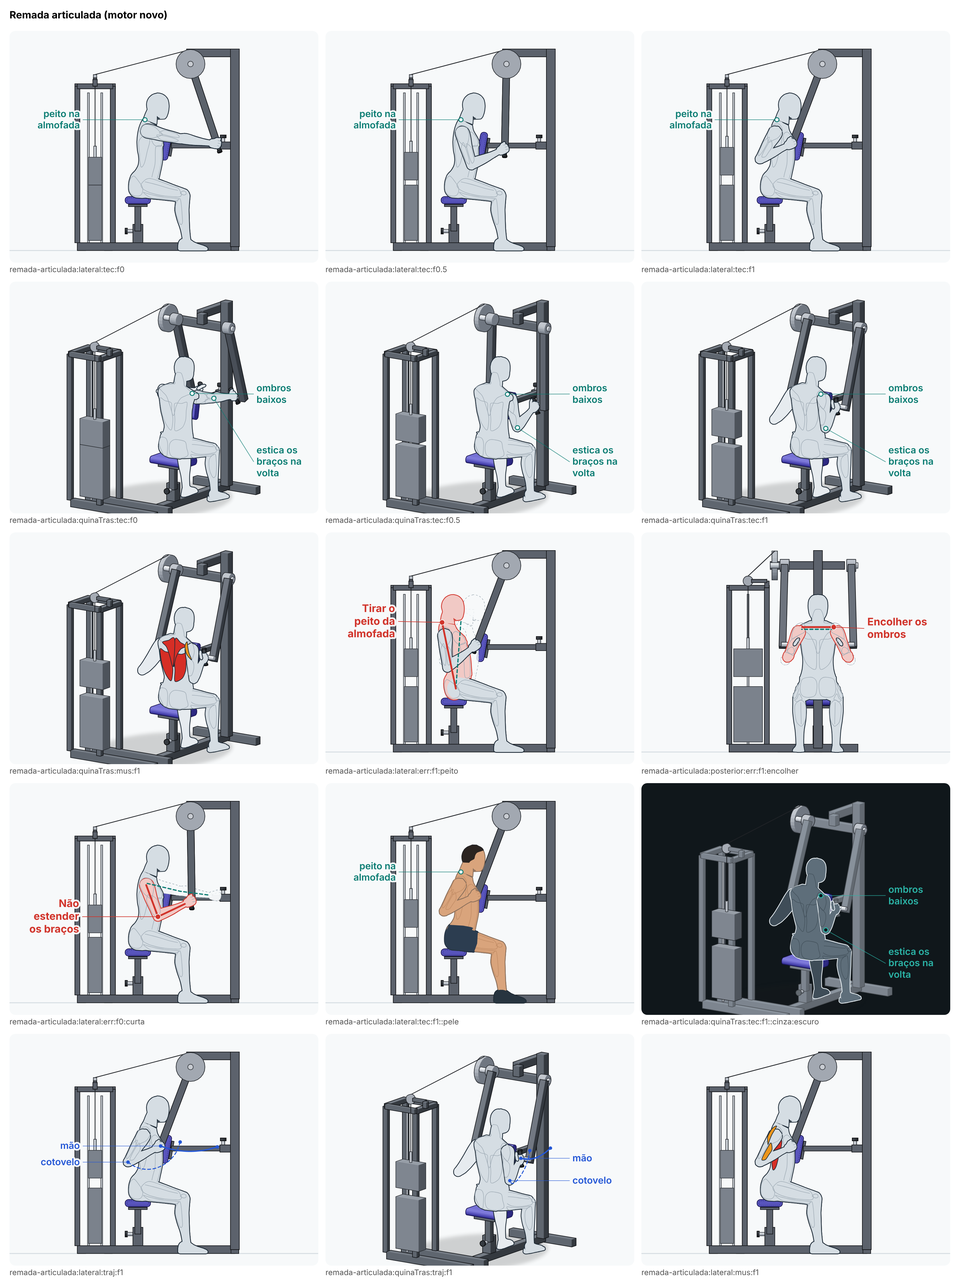
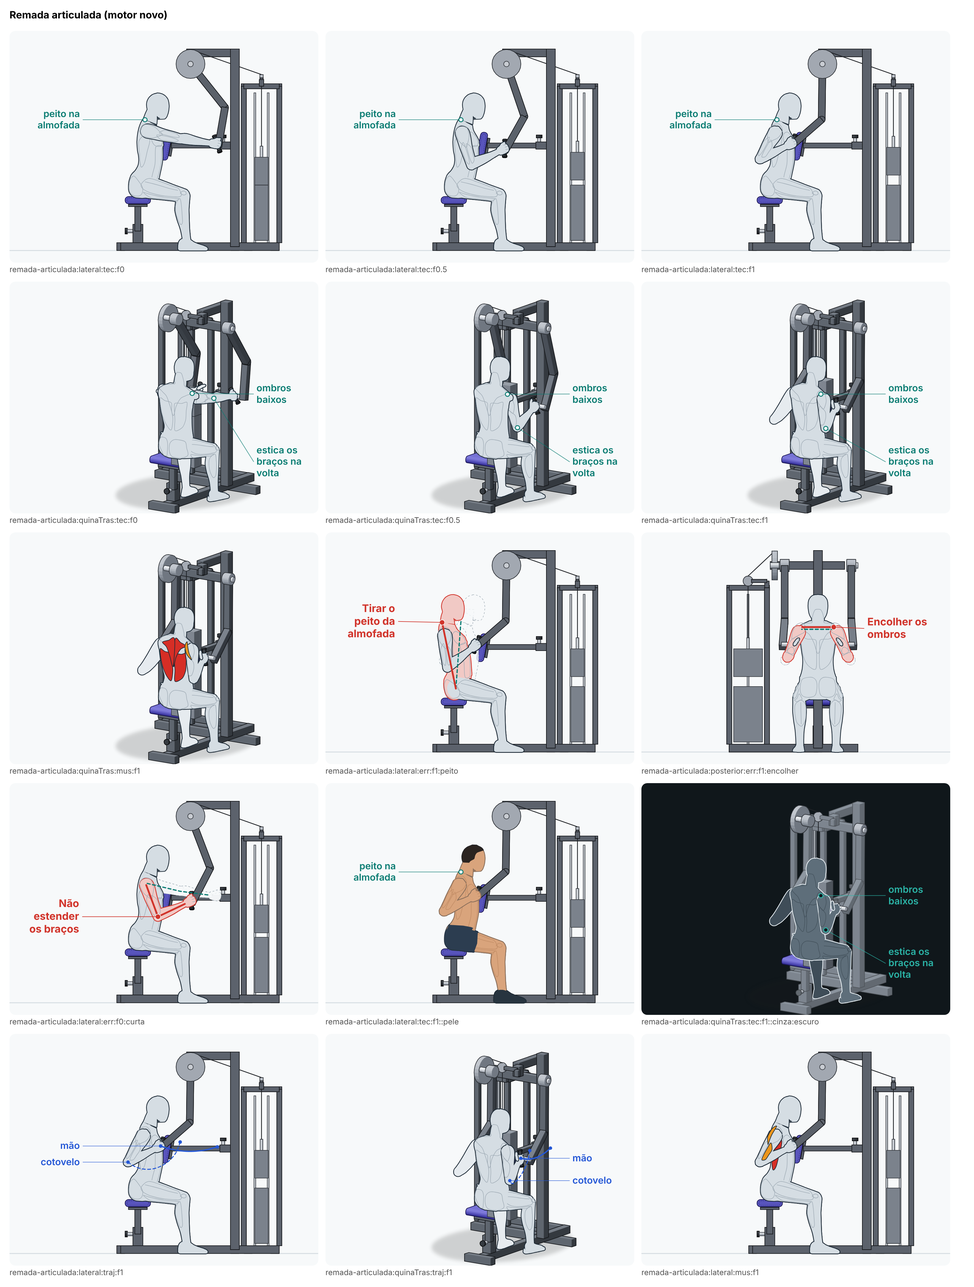
Lote C2: tira o braço da remada articulada da frente do rosto
De lado, o tubo reto do braço da máquina passava rente à frente do rosto
e cortava a cabeça na diagonal. Agora ele é dobrado (sai do eixo 20° à
frente e dobra a 50 cm dele), sem mudar o arco do pegador. A torre vai
para a frente, depois da coluna: atrás das costas fica o vão, e os nomes
do modo Trajetória e o rótulo de lado não caem mais em cima dela.

Claude-Session: https://claude.ai/code/session_01YRzts8DBGbsca9onebcMt1

diff --git a/src/engine/novo/pecas-de-cena/remada-articulada.ts b/src/engine/novo/pecas-de-cena/remada-articulada.ts
@@ -15,7 +15,8 @@
 // só, o apoio do peito na frente dele, a coluna inclinada que sobe da frente da base até o eixo no alto, os braços que
 // pendem do eixo com os pegadores na ponta. O que muda, e por quê: o cartão é de anilhas (um pino de cada lado); as
 // fichas lidas são de pilha e o texto do app conta a carga pela "placa da torre", então aqui a carga é a pilha, numa
-// torre ao lado e atrás do assento (como no supino na máquina: de lado, ela fica atrás das costas e não tapa o braço).
+// torre à esquerda de quem senta, depois da coluna da frente (de lado, atrás das costas fica só o vão, onde cabem os
+// rótulos).
 // No cartão, o apoio do peito fica num poste que sobe da base; aqui ele corre num tubo que sai da coluna, com o botão de
 // regular (a lista de peças da Life Fitness: "KNOB, ADJ"), e o poste não passa entre os joelhos.
 //
@@ -26,7 +27,7 @@ import { sinal } from '../esqueleto';
 import type { Lado } from '../esqueleto';
 import type { PecaPropria } from '../pecas';
 import { obj } from '../tabelas';
-import { add, cross, mul, norm, sub } from '../vec';
+import { add, cross, girar, mul, norm, sub } from '../vec';
 import type { V3 } from '../vec';
 import { REMADA_ARTICULADA, bracoNoAngulo, bracoX, faceDoApoioDoPeito, subidaDaPilhaDeEmpurrar } from './maquina-de-empurrar';
 import type { MaquinaDeEmpurrar, OpcoesDaMaquinaDeEmpurrar } from './maquina-de-empurrar';
@@ -68,37 +69,52 @@ export function remadaArticulada(m: MaquinaDeEmpurrar, op: OpcoesDaMaquinaDeEmpu
   const meiaLarg = g('assentoLarg') / 2,
     cA = g('assentoComp');
   const A = faceDoApoioDoPeito(mod, m.apoio ?? (g('apoioMin') + g('apoioMax')) / 2);
+  const zP = -cA / 2;
   const xB = bracoX(mod);
   const yE = g('eixoAltura'),
     zE = g('eixoAFrente');
   const col = colunaDaRemada();
   const bracos = { R: bracoNoAngulo(mod, 'R', m.braco), L: bracoNoAngulo(mod, 'L', m.braco) };
-  // a torre da pilha, à esquerda de quem senta, atrás do assento
-  const xT0 = xB + 16,
-    xT1 = xT0 + 34;
-  const zTorre = -50;
+  // a torre da pilha, à esquerda de quem senta (`lt`: o lado da torre, em x; o came fica no braço do mesmo lado), na
+  // frente, depois da coluna: de lado, atrás do assento fica só o vão, e os nomes dos rótulos cabem ali sem cair em cima
+  // dela. À direita, ela ficava embaixo dos rótulos de três quartos por trás e de trás
+  const lt = 1;
+  const xT0 = lt * (xB + 16),
+    xT1 = xT0 + lt * 34;
+  const zTorre = col.pe[2] + 24;
   const zT0 = zTorre - 16,
     zT1 = zTorre + 16;
   const H = g('alturaTorre');
-  const zTras = zT0 - 6,
-    zFrente = col.pe[2] + 6;
+  const zTras = zP - cA / 2 - 8,
+    zFrente = zT1 + 6;
 
   const caixa = (o: V3, x: V3, y: V3, z: V3, meias: V3, cls: string): Prim => ({ t: 'caixa', ref: { o, x, y, z }, meias, cls, vies: 0.5 });
   const rC = Math.min(esp * 0.45, 4);
   const estofado = (o: V3, x: V3, y: V3, z: V3, meias: V3): Prim[] => [caixa(o, x, y, z, [meias[0], meias[1], meias[2] - rC], 'estofado'), caixa(o, x, y, z, [meias[0], meias[1] - rC, meias[2]], 'estofado')];
-  const zP = -cA / 2;
   const meioApoio = add(A.base, mul(A.sobe, A.comp / 2));
   const prims: Prim[] = [
     ...estofado([0, m.assento - esp / 2, zP], X, Y, Z, [meiaLarg, esp / 2, cA / 2]),
     ...estofado(add(meioApoio, mul(A.tras, -esp / 2)), X, A.tras, A.sobe, [A.larg / 2, esp / 2, A.comp / 2]),
   ];
+  // o tubo de cada braço é dobrado: do eixo, desce `bracoDobra` graus à frente da linha até a ponta, por
+  // `bracoDobraEm` cm, e daí vai até a ponta (o arco do pegador não muda). Reto, de lado, ele passaria rente ao rosto no
+  // fim da puxada
+  const dobra = (k: Lado): V3 => {
+    const b = bracos[k];
+    return add(b.eixo, mul(girar(norm(sub(b.ponta, b.eixo)), b.dirEixo, -g('bracoDobra')), g('bracoDobraEm')));
+  };
   for (const k of ['R', 'L'] as Lado[]) {
     const b = bracos[k];
-    const d = sub(b.ponta, b.eixo);
-    const z = norm(d),
-      x = norm(cross(Y, z)),
-      y = cross(z, x);
-    prims.push(caixa(add(b.eixo, mul(d, 0.5)), x, y, z, [3, 3, Math.hypot(...d) / 2], 'aco'));
+    for (const [a0, a1] of [
+      [b.eixo, dobra(k)],
+      [dobra(k), b.ponta],
+    ] as [V3, V3][]) {
+      const d = sub(a1, a0);
+      const z = norm(d),
+        x = norm(cross(Y, z)),
+        y = cross(z, x);
+      prims.push(caixa(add(a0, mul(d, 0.5)), x, y, z, [3, 3, Math.hypot(...d) / 2], 'aco'));
+    }
   }
 
   type C_ = Parameters<PecaPropria['desenhar']>[0];
@@ -112,10 +128,12 @@ export function remadaArticulada(m: MaquinaDeEmpurrar, op: OpcoesDaMaquinaDeEmpu
     nome: mod.nome,
     fixa: [mod.objeto, m.assento, A.base[2]],
     desenhar(C, M, o) {
-      // a base no chão: a espinha ao longo de z (entre os pés de quem senta), as travessas da torre e a do pé da coluna
-      T(C, M, [0, tubo / 2, zT0], [0, tubo / 2, col.pe[2]]);
-      for (const z of [zT0 + 4, zT1 - 4]) T(C, M, [-meiaLarg + 4, tubo / 2, z], [xT1, tubo / 2, z]);
-      T(C, M, [-(xB + 6), tubo / 2, col.pe[2]], [xB + 6, tubo / 2, col.pe[2]]);
+      // a base no chão: a espinha ao longo de z (entre os pés de quem senta), a travessa de trás do assento, a do pé da
+      // coluna e as da torre
+      T(C, M, [0, tubo / 2, zTras + 4], [0, tubo / 2, zT1]);
+      T(C, M, [-meiaLarg + 4, tubo / 2, zTras + 4], [meiaLarg - 4, tubo / 2, zTras + 4]);
+      T(C, M, [-lt * (xB + 6), tubo / 2, col.pe[2]], [xT1, tubo / 2, col.pe[2]]);
+      for (const z of [zT0 + 4, zT1 - 4]) T(C, M, [0, tubo / 2, z], [xT1, tubo / 2, z]);
       // o pé do assento: a luva parada e o tubo que sobe e desce dentro dela, com o pino de regular
       T(C, M, [0, tubo, zP], [0, g('assentoMin') - esp - 6, zP], tubo + 2);
       T(C, M, [0, g('assentoMin') - esp - 12, zP], [0, m.assento - esp - 1, zP], tubo - 1.5);
@@ -128,7 +146,7 @@ export function remadaArticulada(m: MaquinaDeEmpurrar, op: OpcoesDaMaquinaDeEmpu
       // esquerda (a coluna, que sobe do pé até o alto, é a peça `coluna`)
       T(C, M, add(col.topo, [0, 0, tubo / 2]), add(col.viga, [0, 0, -tubo / 2]), tubo);
       T(C, M, col.viga, [0, yE, zE], tubo);
-      T(C, M, [-(xB - 6), yE, zE], [xB + 13, yE, zE], tubo);
+      T(C, M, [-lt * (xB - 6), yE, zE], [lt * (xB + 13), yE, zE], tubo);
       // o apoio do peito: o estofado, a chapa de trás, o tubo que corre na luva da coluna e o botão de regular
       C.estofado(add(meioApoio, mul(A.tras, -esp)), A.sobe, A.tras, X, A.comp, esp, A.larg);
       const atrasDoApoio = add(meioApoio, mul(A.tras, -esp - 1.5));
@@ -148,7 +166,7 @@ export function remadaArticulada(m: MaquinaDeEmpurrar, op: OpcoesDaMaquinaDeEmpu
       for (const z of [zT0, zT1]) T(C, M, [xT0, H, z], [xT1, H, z], 4.5);
       for (const x of [xT0, xT1]) T(C, M, [x, H, zT0], [x, H, zT1], 4.5);
       for (const dz of [-6, 6]) C.cilindro([(xT0 + xT1) / 2, tubo, zTorre + dz], [(xT0 + xT1) / 2, H - 6, zTorre + dz], 0.8, M.cromo, { lados: 8 });
-      if (o.comSombra) C.sombra((xT1 - xB) / 2, (zTras + zFrente) / 2, (xT1 + xB) / 2 + 6, (zFrente - zTras) / 2, 0.18);
+      if (o.comSombra) C.sombra((xT1 - lt * xB) / 2, (zTras + zFrente) / 2, Math.abs(xT1 + lt * xB) / 2 + 6, (zFrente - zTras) / 2, 0.18);
     },
   };
 
@@ -172,7 +190,10 @@ export function remadaArticulada(m: MaquinaDeEmpurrar, op: OpcoesDaMaquinaDeEmpu
     // o mancal no eixo, o tubo do braço, o toco para dentro e o pegador de pé na ponta dele, com a borracha
     C.cilindro(add(b.eixo, mul(b.dirEixo, -s * 4)), add(b.eixo, mul(b.dirEixo, s * 4)), 5.5, M.metalClaro, { lados: 20, ...dz });
     C.cilindro(add(b.eixo, mul(b.dirEixo, s * 4)), add(b.eixo, mul(b.dirEixo, s * 6)), 2.5, M.cromo, { lados: 12, ...dz });
-    C.tubo(b.eixo, add(b.ponta, mul(b.dirBorracha, -3)), 6, 6, M.metal, { up: b.dirEixo, ...dz });
+    const K = dobra(k);
+    C.tubo(b.eixo, K, 6, 6, M.metal, { up: b.dirEixo, ...dz });
+    C.cilindro(add(K, mul(b.dirEixo, -3)), add(K, mul(b.dirEixo, 3)), 3, M.metal, { lados: 14, ...dz });
+    C.tubo(K, add(b.ponta, mul(b.dirBorracha, -3)), 6, 6, M.metal, { up: b.dirEixo, ...dz });
     C.cilindro(add(b.ponta, mul(b.dirPegador, -2)), b.centro, 2, M.cromo, { lados: 12, ...dz });
     const meia = g('pegadorComp') / 2;
     const r = g('pegadorDiam') / 2;
@@ -188,7 +209,7 @@ export function remadaArticulada(m: MaquinaDeEmpurrar, op: OpcoesDaMaquinaDeEmpu
     kP = Math.min(n, Math.max(1, m.placas ?? 5)),
     hp = g('pilhaAltura') / n;
   const rCame = g('cameDiam') / 2;
-  const xCame = xB + 9;
+  const xCame = lt * (xB + 9);
   const pilha: PecaPropria = {
     t: 'propria',
     nome: `pilha da ${mod.nome}`,
@@ -200,8 +221,8 @@ export function remadaArticulada(m: MaquinaDeEmpurrar, op: OpcoesDaMaquinaDeEmpu
       C.pilha([xP, yDo, zPl], X, [0, 0, -1], g('pilhaLarg'), hp * kP, g('pilhaProf'), kP);
       const xc = (xT0 + xT1) / 2;
       C.cilindro([xc, yDo + hp * kP, zTorre], [xc, yDo + hp * kP + 10, zTorre], 1.2, M.cromo, { lados: 8 });
-      // o came no eixo do braço da esquerda; o cabo sai por cima dele, vai até a roldana do alto da torre e desce até o
-      // pino das placas
+      // o came no eixo do braço da esquerda (o lado da torre); o cabo sai por cima dele, vai até a roldana do alto da torre
+      // e desce até o pino das placas
       const cE: V3 = [xCame, yE, zE];
       C.cilindro(add(cE, [-2.5, 0, 0]), add(cE, [2.5, 0, 0]), rCame, M.metalClaro, { lados: 24 });
       C.cilindro(add(cE, [-4, 0, 0]), add(cE, [4, 0, 0]), 2.5, M.cromo, { lados: 12 });
@@ -210,7 +231,7 @@ export function remadaArticulada(m: MaquinaDeEmpurrar, op: OpcoesDaMaquinaDeEmpu
       C.linha([xc, H + 6 - 4.5, zTorre], [xc, yDo + hp * kP + 10, zTorre], '#202327', 0.7);
       C.cilindro(add(roldana, [0, 0, -1.5]), add(roldana, [0, 0, 1.5]), 4.5, M.metalClaro, { lados: 16 });
       T(C, M, [xT0, H, zTorre], [xT0, H + 6, zTorre], 4);
-      T(C, M, [xT0, H + 6, zTorre], [xc - 3, H + 6, zTorre], 3);
+      T(C, M, [xT0, H + 6, zTorre], [xc - lt * 3, H + 6, zTorre], 3);
     },
   };
   return {
@@ -223,6 +244,6 @@ export function remadaArticulada(m: MaquinaDeEmpurrar, op: OpcoesDaMaquinaDeEmpu
     eixos: { R: bracos.R.eixo, L: bracos.L.eixo },
     subida,
     apoio: A,
-    extremos: { zTras, zFrente, xDireita: -xB - 6, xEsquerda: xT1 + 2 },
+    extremos: { zTras, zFrente, xDireita: Math.min(-xB - 6, xT1 - 2), xEsquerda: Math.max(xB + 6, xT1 + 2) },
   };
 }

diff --git a/docs/revisoes/animacao-nova/lote-C2/remada-articulada.md b/docs/revisoes/animacao-nova/lote-C2/remada-articulada.md
@@ -42,7 +42,7 @@ As mãos não andam numa reta: cada uma fica presa no pegador, e o pegador anda 
 
 ## As vistas
 
-**De lado** (padrão do modo Técnica): mostra a puxada, o peito no apoio e o cotovelo indo para trás. Os dois braços da máquina são pintados atrás do corpo nessa vista: o de longe porque está atrás, e o de perto como corte de ilustração (como no supino na máquina aprovado), senão o tubo dele cobriria a mão e o braço direito. O apoio do peito e a estrutura são cenário (atrás do corpo: o peito é pintado por cima do apoio, e não o contrário); a coluna da frente fica no enquadramento, para os nomes do modo Trajetória não caírem em cima dela.
+**De lado** (padrão do modo Técnica): mostra a puxada, o peito no apoio e o cotovelo indo para trás. Os dois braços da máquina são pintados atrás do corpo nessa vista: o de longe porque está atrás, e o de perto como corte de ilustração (como no supino na máquina aprovado), senão o tubo dele cobriria a mão e o braço direito. O tubo de cada braço é dobrado (sai do eixo 20° à frente e dobra a 50 cm dele): de lado, ele fica longe do rosto em todo o caminho (reto, ele passava rente à frente do rosto e do pescoço no meio e no fim da puxada). O apoio do peito e a estrutura são cenário (atrás do corpo: o peito é pintado por cima do apoio, e não o contrário); a coluna da frente fica no enquadramento. A torre fica depois da coluna, na frente: atrás das costas fica só o vão, e os rótulos de lado ("peito na almofada") e os nomes do modo Trajetória ("mão", "cotovelo") ficam ali, sem cair em cima da torre nem da coluna.
 
 **De três quartos por trás** (padrão do modo Músculos; a mesma segunda vista da remada apoiada aprovada): mostra as costas, as escápulas que se juntam, os dois cotovelos indo para trás e a máquina inteira, com os pegadores. **De trás** fica para o erro dos ombros (a linha dos dois ombros). De frente, a coluna e o apoio ficam entre quem olha e o corpo; de três quartos pela frente, os braços da máquina tapam o tronco: as duas ficaram de fora.
 
@@ -58,7 +58,7 @@ Erro sem desenho: nenhum (os três têm consequência visível na pose).
 
 ## O equipamento
 
-A remada articulada é peça nova (folha: `docs/revisoes/animacoes-restantes/pecas/folha-remada-articulada.png`), o terceiro modelo da máquina de empurrar sentado aprovada: o mesmo assento com pino, os mesmos braços independentes, o mesmo came e a mesma torre com a pilha; no lugar do encosto, o apoio do peito na frente (25,4 × 19,4 cm, da lista de peças da Life Fitness SS-RW), num tubo que sai da coluna, com o botão de regular; o eixo a 170 cm do chão, 36 cm à frente da borda do assento, numa viga que sai da coluna da frente; os braços de 76 cm que pendem dele e giram para trás; os pegadores de pé, inclinados 20° para dentro. Todas as medidas e as fontes estão no arquivo de objetos e na folha.
+A remada articulada é peça nova (folha: `docs/revisoes/animacoes-restantes/pecas/folha-remada-articulada.png`), o terceiro modelo da máquina de empurrar sentado aprovada: o mesmo assento com pino, os mesmos braços independentes, o mesmo came e a mesma torre com a pilha; no lugar do encosto, o apoio do peito na frente (25,4 × 19,4 cm, da lista de peças da Life Fitness SS-RW), num tubo que sai da coluna, com o botão de regular; o eixo a 170 cm do chão, 36 cm à frente da borda do assento, numa viga que sai da coluna da frente; os braços de 76 cm (dobrados 20°, a 50 cm do eixo) que pendem dele e giram para trás; a torre à esquerda de quem senta, depois da coluna; os pegadores de pé, inclinados 20° para dentro. Todas as medidas e as fontes estão no arquivo de objetos e na folha.
 
 **Mudança no arquivo comum (aditiva):** em `pecas-de-cena/maquina-de-empurrar.ts`, o modelo ganhou três campos opcionais (`puxa`: o braço gira para trás; `pegador: 'vertical'`: o pegador de pé na ponta de um toco; `apoio: 'peito'`), o valor `'frente'` do eixo, o campo opcional `apoio` (a regulagem do apoio do peito) e a função `faceDoApoioDoPeito`; `bracoNoAngulo` devolve também `dirBorracha` (a direção da borracha do pegador; no atravessado, a mesma de `dirPegador`). Sem os campos, as contas são as mesmas de antes: o preparo do supino e do desenvolvimento na máquina não mudou (`preparo.mjs` só regravou o arquivo da remada e o registro).
 
@@ -72,10 +72,17 @@ Nenhum.
 
 ## O que não ficou bom
 
-- **De lado, no fim, o braço da máquina passa rente à frente do rosto.** Ele está atrás do corpo (o rosto é pintado por cima), mas a linha do tubo cruza o queixo. Vem do arco: o eixo fica na vertical do meio do caminho das mãos para elas andarem na horizontal, e no fim o braço inclina para trás. Afastar o eixo para a frente faria a mão subir no fim do caminho.
 - **O cotovelo dobra 146° no fim**, e a mão para na frente do peito, ao lado do apoio. Com o peito no apoio e a mão presa no pegador, levar o cotovelo 20° além do tronco pede isso; com 15°, o cotovelo não passava a linha das costas. O cotovelo desce até a altura da cintura (o ombro fica 11 cm acima da linha do peito).
-- **Os nomes do modo Trajetória ficam à esquerda, sobre a torre**, e o fio de "mão" atravessa o braço até a mão; à direita, eles caíam em cima da coluna. "peito na almofada" também fica sobre a torre (como "costas no encosto" no supino na máquina aprovado), com o fio na base do pescoço.
-- **A estrutura não é a do cartão de hoje.** O cartão tem a coluna inclinada até o eixo e anilhas nos pinos; aqui a coluna sobe reta na frente (de lado, a inclinada passava atrás das mãos no começo) e a carga é a pilha (as fichas lidas e o texto do app). No tamanho do cartão, a peça nova é um quadro alto e menos reconhecível que o cartão.
+- **O fio do nome "mão", no modo Trajetória, atravessa o braço** até a mão: o nome fica no vão atrás das costas (à direita não cabe, entre a coluna e a borda do quadro).
+- **De três quartos por trás, a torre fica atrás da cabeça** (ela está na frente, depois da coluna). Com a torre à direita de quem senta, os rótulos dessa vista e o de trás caíam em cima dela; ficou à esquerda.
+- **A estrutura não é a do cartão de hoje.** O cartão tem a coluna inclinada até o eixo e anilhas nos pinos; aqui a coluna sobe reta na frente (de lado, a inclinada passava atrás das mãos no começo), os braços são dobrados e a carga é a pilha (as fichas lidas e o texto do app), numa torre na frente. No tamanho do cartão, a peça nova é um quadro alto e menos reconhecível que o cartão.
 - **O apoio do peito é pequeno** (a medida da Life Fitness, 25 × 19 cm): encosta só no meio do peito, e de lado ele quase some atrás do braço no fim.
 
-**Risco de o Gustavo não gostar: médio.** A pose e a máquina fecham pela medida, os erros se leem e a máquina funciona (os braços giram no eixo, as mãos andam no arco, a pilha sobe); o risco está na peça (a coluna e a carga diferentes do cartão de hoje) e no quadro de lado no fim, com o braço da máquina rente ao rosto e o cotovelo muito dobrado.
+**Risco de o Gustavo não gostar: médio.** A pose e a máquina fecham pela medida, os erros se leem e a máquina funciona (os braços giram no eixo, as mãos andam no arco, a pilha sobe); o risco está na peça (a coluna, os braços dobrados e a carga diferentes do cartão de hoje) e no cotovelo muito dobrado no fim.
+
+## Revisão de 18/11/2026 (pedido de quem integra)
+
+1. **De lado, o braço da máquina cortava a cabeça na diagonal** (em f0,5 e f1). Os dois braços já eram pintados atrás do corpo de lado (o de perto como corte de ilustração, a opção `bracoDePertoAtras`), mas o tubo reto passava rente à frente do rosto e aparecia dos dois lados da cabeça. Agora o tubo é dobrado (sai do eixo 20° à frente e dobra a 50 cm dele; `bracoDobra` e `bracoDobraEm` no arquivo de objetos, de desenho): o arco do pegador não muda, e de lado o braço fica longe do rosto em todos os quadros (técnica, músculos, trajetória, pele e erros). O pegador e a mão continuam onde estavam.
+2. **Os nomes do modo Trajetória ficavam sobre a torre.** A torre foi para a frente, depois da coluna (à esquerda de quem senta, como antes): atrás das costas fica só o vão, e os nomes "mão" e "cotovelo" (e o rótulo "peito na almofada") ficam ali. Tentei a torre à direita de quem senta: os rótulos de três quartos por trás e o de trás caíam em cima dela.
+
+A conferência continua com 0 falha e 2 avisos (os mesmos); o supino e o desenvolvimento na máquina não mudaram (a mudança é só no desenho da peça da remada).

diff --git a/docs/revisoes/animacao-nova/lote-C2/resumo-articulada.md b/docs/revisoes/animacao-nova/lote-C2/resumo-articulada.md
@@ -7,8 +7,8 @@ De 18/11/2026. Uma peça nova (a remada articulada, terceiro modelo da máquina 
 - Arquivos: `src/engine/novo/pecas-de-cena/remada-articulada.ts` (o desenho), o modelo `REMADA_ARTICULADA` em `pecas-de-cena/maquina-de-empurrar.ts`, as medidas em `src/engine/novo/dados/objetos/remada-articulada.json`, a folha em `docs/revisoes/animacoes-restantes/pecas/folha-remada-articulada.png` (o cartão de hoje no tamanho do cartão e ampliado, a peça de três quartos, de lado no começo e no fim, de cima com os pegadores se abrindo, a regulagem do apoio do peito e a tabela de medidas), feita por `scripts/animacao-nova/folha-pecas.mjs remada-articulada`.
 - **Medidas de fabricante (tipo `medida`):** comprimento 124 cm e largura 140 cm (Life Fitness SS-RW, catálogo 2026, p. 214); altura 181 cm (Hammer Strength HS-RW, catálogo 2024, p. 59, a de "overhead pivot"); torre de 148 cm e estofado de 6,5 cm (Precor RSL0310, página pública); **da lista de peças pública da Life Fitness SS-RW** (servicesport.com, PDF sem login): o apoio do peito 10 × 7⅝ pol (25,4 × 19,4 cm), o assento 15 × 9 pol (38,1 × 22,9 cm), o pegador Ø 1,25 pol (3,2 cm).
 - **Do que as fichas dizem sem número:** o eixo no alto ("overhead pivot", Hammer Strength), o apoio do peito que se regula (Precor, Life Fitness "KNOB, ADJ"), os braços independentes que se abrem ao vir para trás (Precor "diverge as they draw back", Life Fitness "independent diverging movement").
-- **De desenho (com o motivo no arquivo):** o eixo a 170 cm e 36 cm à frente do assento (na vertical do meio do caminho, para a mão andar na horizontal), o braço de 76 cm, o caminho que se abre 2°, os pegadores de pé a 21 cm do meio e inclinados 20° para dentro (o punho alinhado), o toco de 9 cm, o apoio do peito a 10° com a borda de baixo a 82 cm e curso de −5 a 25 cm, o assento de 36 a 58 cm, a coluna da frente 40 cm à frente do eixo, o came de 26 cm e a pilha (iguais às do supino na máquina).
-- **O que muda do cartão de hoje:** a carga é a pilha (o cartão é de anilhas; as fichas e o texto do app são de pilha); a coluna sobe reta na frente dos pegadores, com uma viga até o eixo (a inclinada do cartão passaria atrás das mãos, de lado); o apoio do peito corre num tubo que sai da coluna (no cartão, um poste da base, que passaria entre os joelhos).
+- **De desenho (com o motivo no arquivo):** o eixo a 170 cm e 36 cm à frente do assento (na vertical do meio do caminho, para a mão andar na horizontal), o braço de 76 cm (o tubo dobrado 20°, a 50 cm do eixo, para ficar longe do rosto de lado), o caminho que se abre 2°, os pegadores de pé a 21 cm do meio e inclinados 20° para dentro (o punho alinhado), o toco de 9 cm, o apoio do peito a 10° com a borda de baixo a 82 cm e curso de −5 a 25 cm, o assento de 36 a 58 cm, a coluna da frente 40 cm à frente do eixo, o came de 26 cm e a pilha (iguais às do supino na máquina).
+- **O que muda do cartão de hoje:** a carga é a pilha (o cartão é de anilhas; as fichas e o texto do app são de pilha); a coluna sobe reta na frente dos pegadores, com uma viga até o eixo (a inclinada do cartão passaria atrás das mãos, de lado); a torre fica na frente, depois da coluna (de lado, atrás das costas fica o vão para os rótulos); o apoio do peito corre num tubo que sai da coluna (no cartão, um poste da base, que passaria entre os joelhos).
 - **A máquina funciona:** cada braço gira no seu eixo e o pegador anda num arco de 76 cm em volta dele; os pegadores se afastam de 40,3 para 43,9 cm; o came gira com o braço da esquerda e as placas sobem 8,9 cm; o assento e o apoio do peito se regulam para o corpo.
 
 **Mudança no arquivo comum (aditiva), `pecas-de-cena/maquina-de-empurrar.ts`:** o modelo ganhou os campos opcionais `puxa`, `pegador: 'vertical'` e `apoio: 'peito'` e o valor `'frente'` do eixo; `MaquinaDeEmpurrar` ganhou o campo opcional `apoio`; nova função `faceDoApoioDoPeito`; `bracoNoAngulo` devolve também `dirBorracha` (no pegador atravessado, igual a `dirPegador`). Motivo: a remada é a mesma máquina com o apoio na frente, o braço que se puxa e o pegador de pé. Sem os campos novos, as contas são as de antes: o preparo do supino e do desenvolvimento na máquina não mudou (o `preparo.mjs` só gravou o arquivo novo e o registro). O núcleo `exercicios/maquina-de-empurrar.ts` não mudou: a remada importa dele o que serve (o tronco sentado, os pés, o glúteo no assento, a linha do peito).
@@ -19,5 +19,6 @@ De 18/11/2026. Uma peça nova (a remada articulada, terceiro modelo da máquina 
 - Vistas: de lado (padrão) e de três quartos por trás (como a remada apoiada aprovada).
 - Erros desenhados (os três do cartão): "Tirar o peito da almofada" (o tronco vai 16° para trás e o peito sai 6,3 cm do apoio, de lado), "Encolher os ombros" (a clavícula sobe 8°, de trás), "Não estender os braços" (a volta para em 45%, de lado). Nenhum sem desenho.
 - Regras novas em `regras/remada-articulada.ts`: o pegador na linha do peito com os braços estendidos, sentado com o peito no apoio, o pegador no arco, os pegadores que se afastam.
-- O que não ficou bom: de lado, no fim, o braço da máquina passa rente à frente do rosto (atrás dele, mas a linha cruza o queixo); o cotovelo dobra 146° no fim; os nomes do modo Trajetória ficam sobre a torre, com o fio de "mão" atravessando o braço; a estrutura difere do cartão (coluna reta, pilha); no tamanho do cartão a peça é menos reconhecível que o cartão.
+- Revisão de 18/11 (pedido de quem integra): o tubo do braço da máquina agora é dobrado e, de lado, fica longe do rosto; a torre foi para a frente, e os nomes do modo Trajetória ficam no vão atrás das costas, fora da torre.
+- O que não ficou bom: o cotovelo dobra 146° no fim; o fio de "mão", no modo Trajetória, atravessa o braço; de três quartos por trás, a torre fica atrás da cabeça; a estrutura difere do cartão (coluna reta, pilha); no tamanho do cartão a peça é menos reconhecível que o cartão.
 - **Risco de o Gustavo não gostar: médio.**
